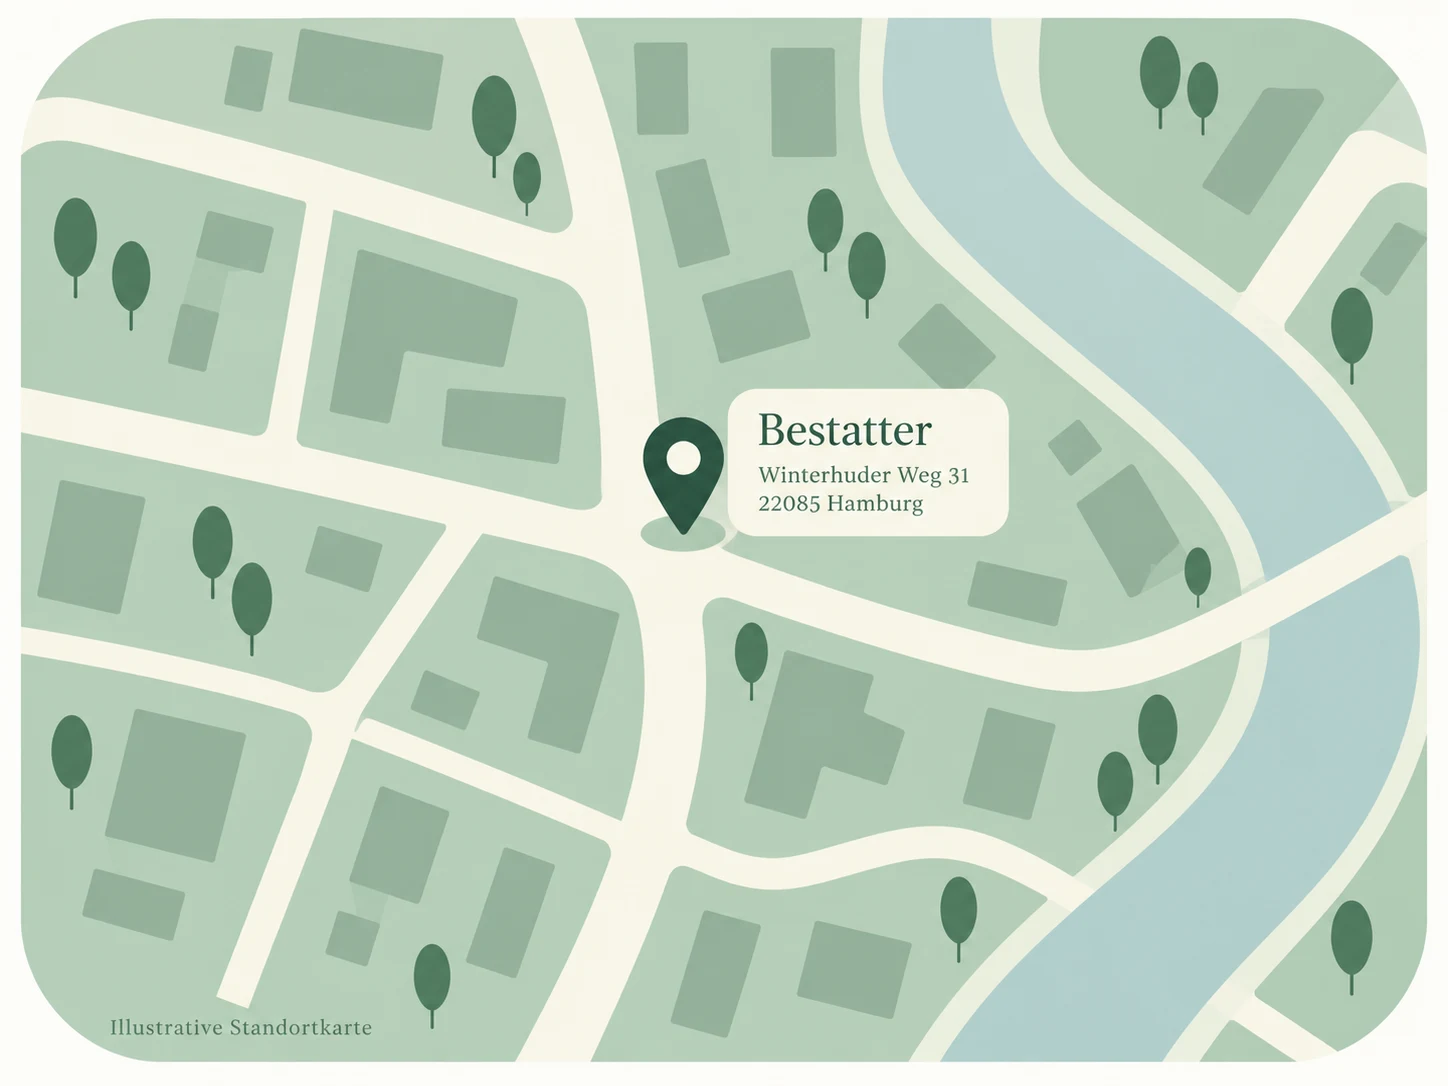
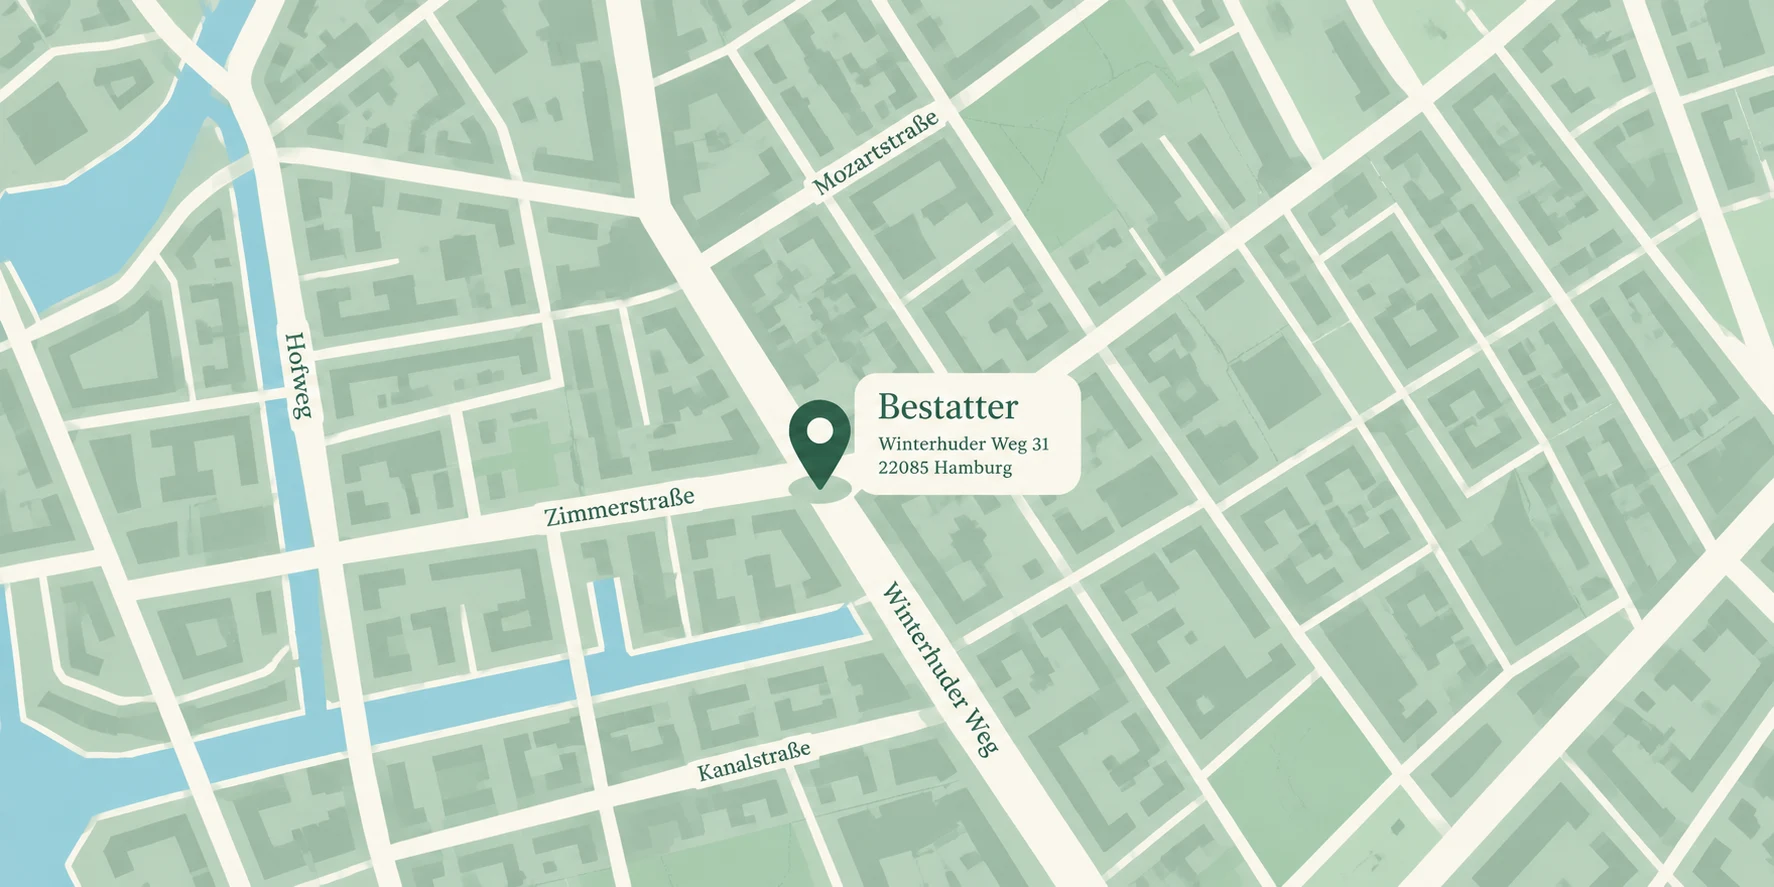
Match location map street layout to reference and simplify AI image credits

diff --git a/src/main.jsx b/src/main.jsx
@@ -132,7 +132,7 @@ function LocationSection() {
   return <section className="location-section section" id="standort" aria-labelledby="location-title">
     <p className="eyebrow">05 / STANDORT</p><h2 id="location-title">Hier finden Sie uns</h2>
     <div className="location-grid">
-      <div className="location-map"><img className="location-map-image" src="./bestatter-map.webp" alt="Illustrative Standortkarte: Bestatter, Winterhuder Weg 31, 22085 Hamburg" width="1200" height="900" loading="lazy"/></div>
+      <div className="location-map"><img className="location-map-image" src="./bestatter-map.webp" alt="Illustrative Standortkarte: Bestatter, Winterhuder Weg 31, 22085 Hamburg" width="1774" height="887" loading="lazy"/></div>
       <div className="location-details"><h3>Bestatter</h3><address><div><MapPin size={24} aria-hidden="true"/><span>Winterhuder Weg 31<br/>22085 Hamburg</span></div><a href="tel:+494060943946"><Phone size={24} aria-hidden="true"/>040 60 94 39 46</a><a href="mailto:mail@alstercloud.de"><EnvelopeSimple size={24} aria-hidden="true"/>mail@alstercloud.de</a></address><a className="button secondary" href="#" onClick={event => event.preventDefault()}><NavigationArrow size={20} aria-hidden="true"/>Route planen</a></div>
     </div>
   </section>;
@@ -143,7 +143,7 @@ function SiteFooter() {
     <div className="footer-top"><a className="brand footer-brand" href="#start" aria-label="Startseite"><img className="brand-logo" src="./AlsterCloud-Logo.png" alt="AlsterCloud" width="1000" height="841" loading="lazy"/></a>
       <div className="footer-social"><h3>Folgen Sie uns</h3><div className="social-links">{[['Facebook', FacebookLogo], ['Instagram', InstagramLogo], ['LinkedIn', LinkedinLogo]].map(([label, SocialIcon]) => <button key={label} type="button" aria-label={label} onClick={() => setNotice('Der ' + label + '-Link wird für die finale Version ergänzt.')}><SocialIcon size={23} weight="regular" aria-hidden="true"/></button>)}</div><p className="footer-status" role="status">{notice}</p></div>
     </div>
-    <div className="footer-bottom"><p>Bestatter © 2026 Alle Rechte vorbehalten.</p><nav aria-label="Footer"><a href="#" onClick={event => event.preventDefault()}>Impressum</a><a href="#" onClick={event => event.preventDefault()}>Datenschutz &amp; Cookies</a><button type="button" className="footer-link" onClick={() => setNotice('Bildnachweise: AlsterCloud-Logo bereitgestellt durch AlsterCloud. Landschaftsgrafik: projektinterner Platzhalter. Illustrative Standortkarte: KI-generierte Illustration.')}>Bildnachweise</button><a href="#kontakt">Kontakt</a></nav><a className="back-to-top" href="#start" aria-label="Zur Startsektion"><ArrowUp size={20} aria-hidden="true"/><span>Nach oben</span></a></div>
+    <div className="footer-bottom"><p>Bestatter © 2026 Alle Rechte vorbehalten.</p><nav aria-label="Footer"><a href="#" onClick={event => event.preventDefault()}>Impressum</a><a href="#" onClick={event => event.preventDefault()}>Datenschutz &amp; Cookies</a><button type="button" className="footer-link" onClick={() => setNotice('Die Bilder dieser Arbeitsprobe wurden mit KI generiert.')}>Bildnachweise</button><a href="#kontakt">Kontakt</a></nav><a className="back-to-top" href="#start" aria-label="Zur Startsektion"><ArrowUp size={20} aria-hidden="true"/><span>Nach oben</span></a></div>
   </footer>;
 }
 
